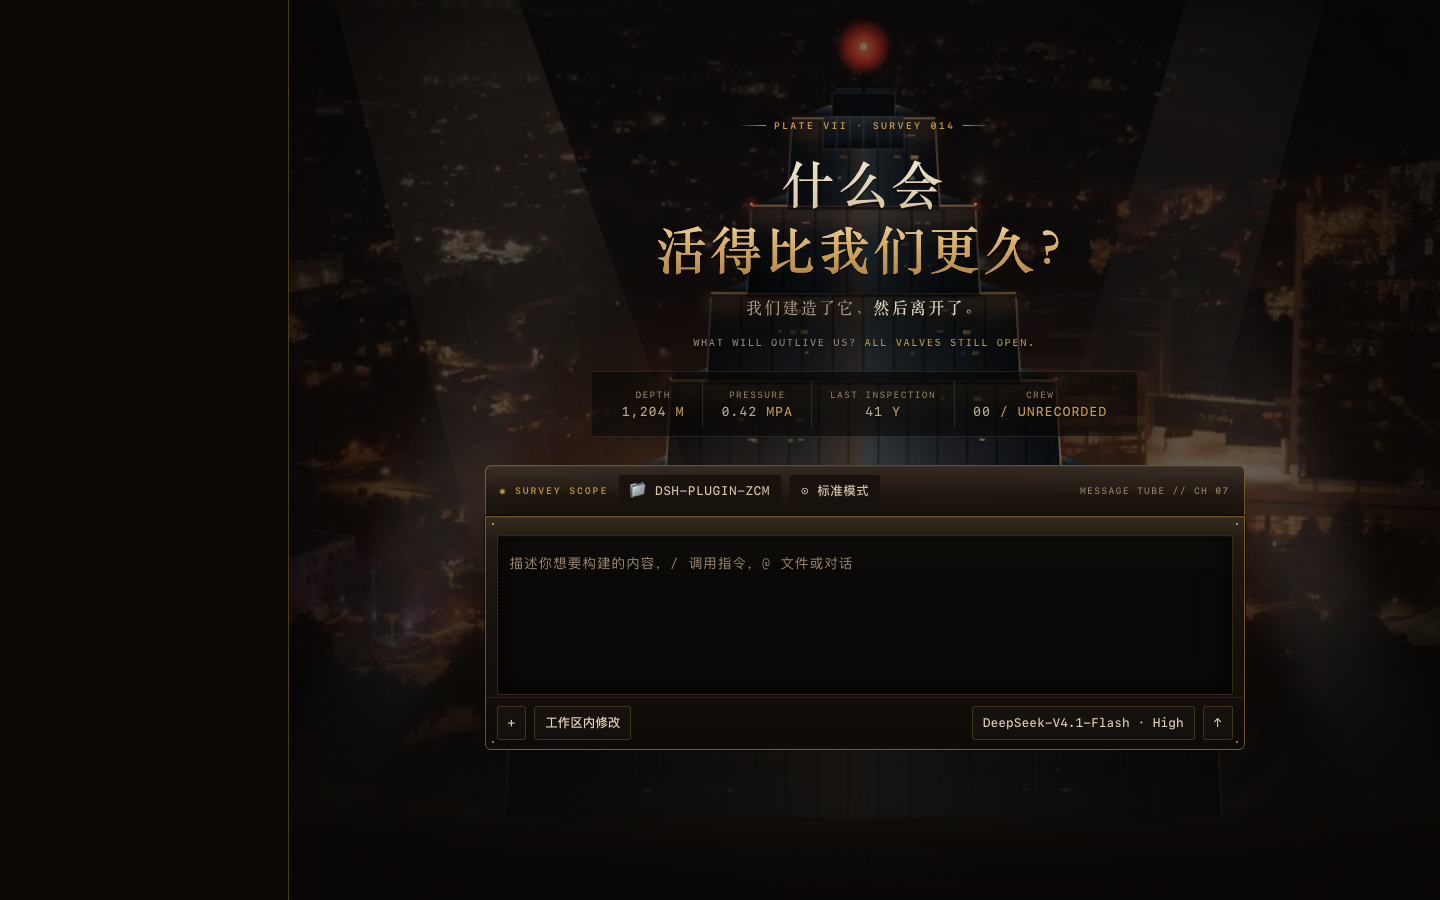
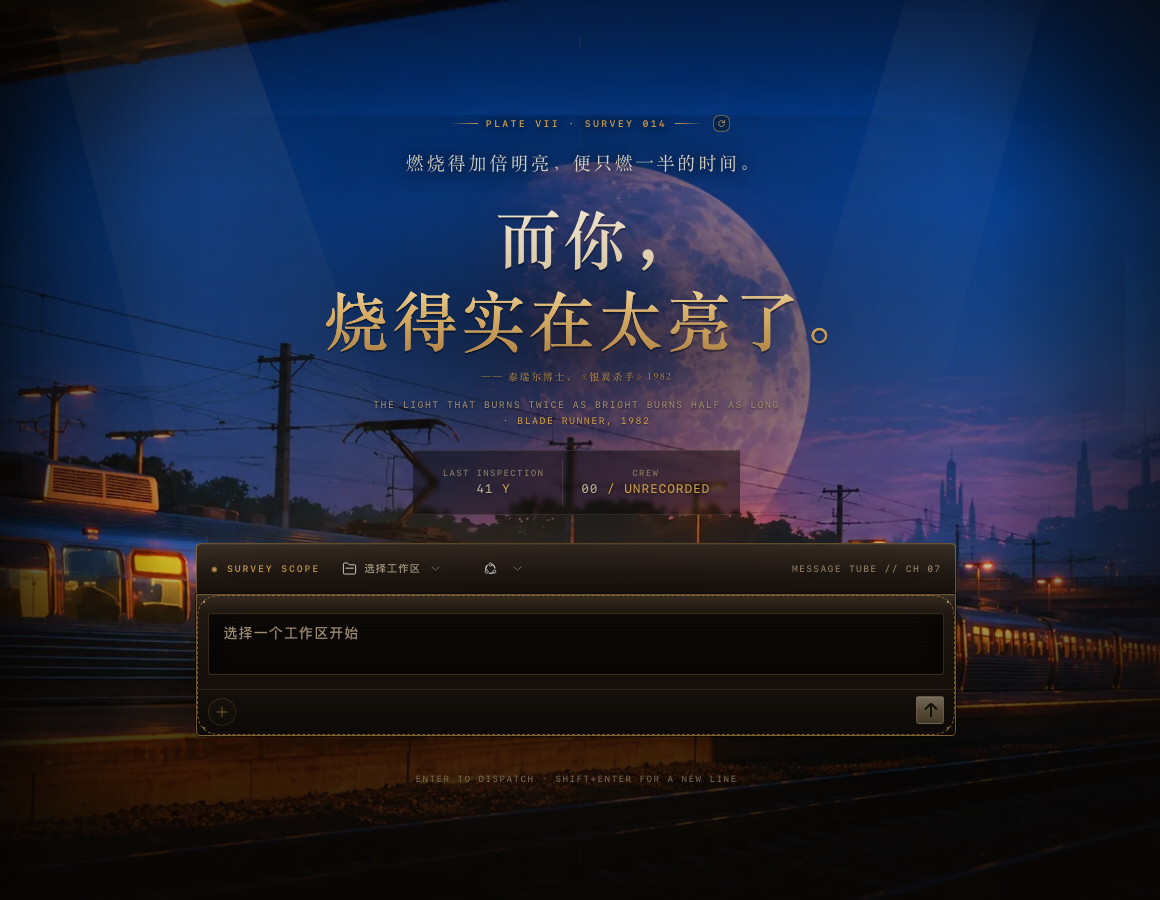
docs: refresh Aetherworks preview plates

diff --git a/preview/index.html b/preview/index.html
@@ -438,10 +438,12 @@ body:not([data-ds-dark-theme]) .aw-scene { background: var(--aw-paper-bg); }
 .aw-photo {
   position: absolute;
   inset: 0;
-  background: url("../src/client/assets/hall.webp") center 42% / cover no-repeat;
-  filter: brightness(.66) contrast(1.14) sepia(.30) saturate(.82) hue-rotate(-8deg);
+  background: url("../src/client/assets/dusk.webp") 58% 34% / cover no-repeat;
+  filter: brightness(.95) contrast(1.03) saturate(1.02) hue-rotate(-3deg);
 }
 body:not([data-ds-dark-theme]) .aw-photo {
+  background-image: url("../src/client/assets/hall.webp");
+  background-position: center 42%;
   filter: brightness(1.12) contrast(.90) sepia(.42) saturate(.72);
   opacity: .86;
 }
